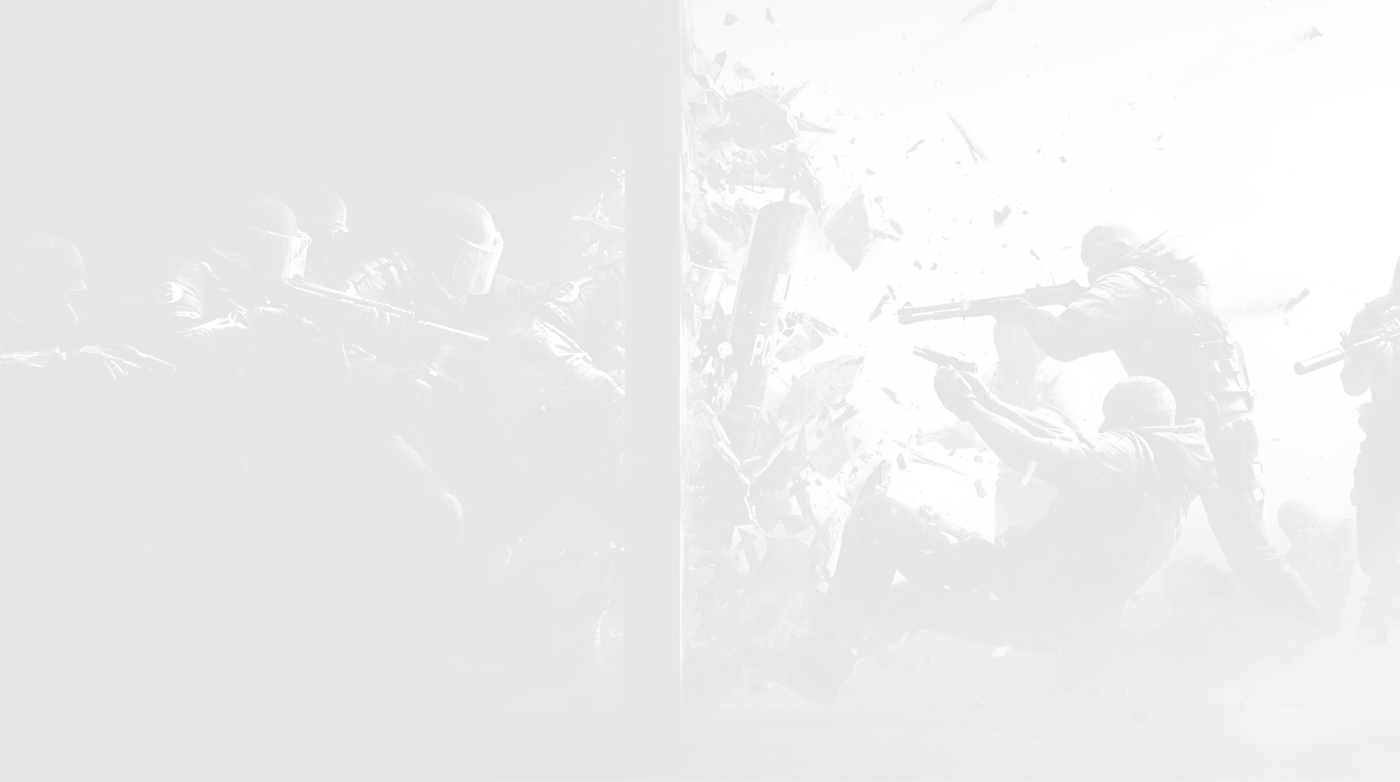
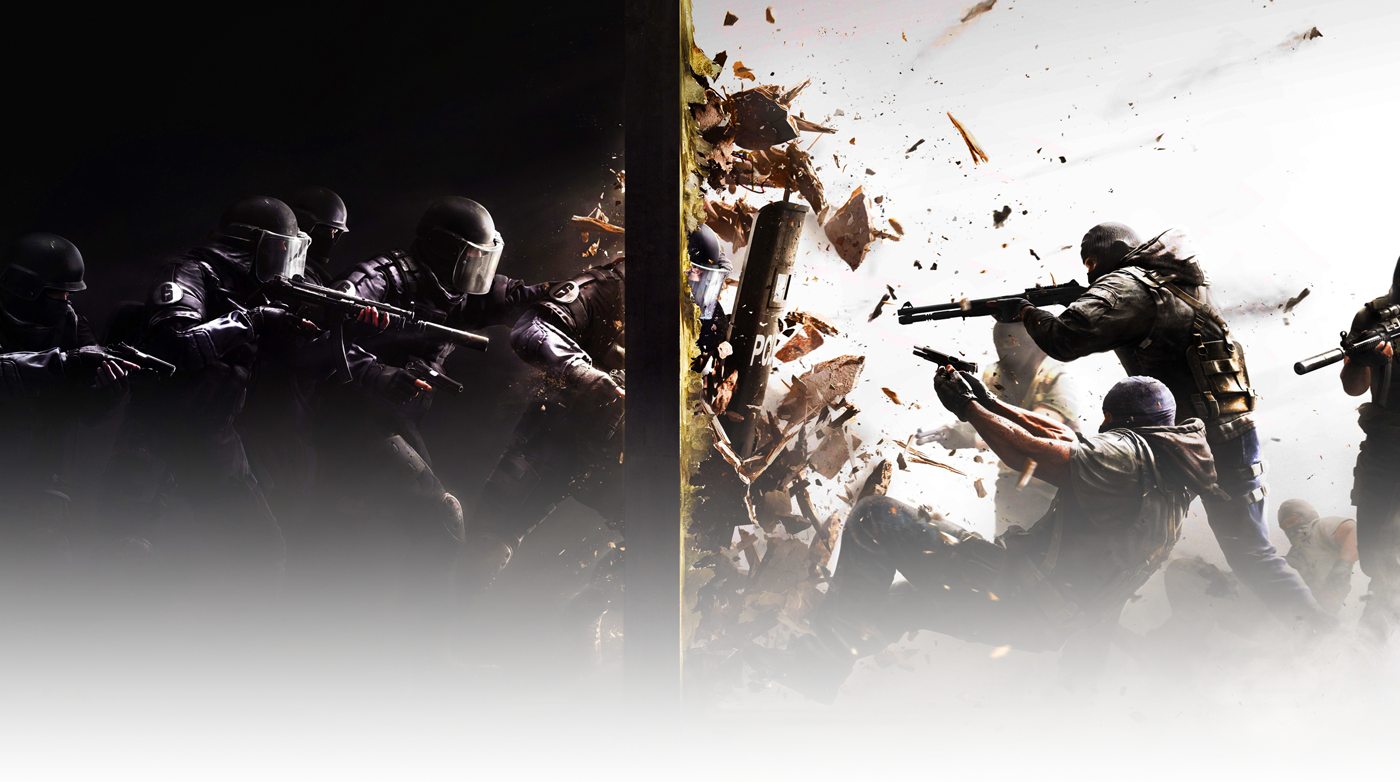
Modified header menu

diff --git a/index.html b/index.html
@@ -12,19 +12,20 @@
 
 <body>
     <header class="header">
+        <div class="header-box"><img src="./Images/bgimg-header.png" alt="header-img"></div>
         <div class="container">
             <div class="row flex-column-left">
                 <div class="header-title col-xs-12 col-sm-12 col-md-9 col-lg-6 col-xl-12"><span>S</span>ublime</div>
                 <div class="header-description col-xs-12 col-sm-12 col-md-9 col-lg-6 col-xl-6"><span>S</span>ublime: A
                     one page responsive wordpress theme <br>suitable for any kind of business representation.</div>
-                <div class="header-menu col-xs-12">
-                    <div class="box"><img src="./Images/img-header.png" alt=""></div>
+                <div class="header-menu">
+                    <div class="box flex-row-top-center"><img src="./Images/img-header.png" alt=""></div>
                     <div class="title-sublime"><span>W</span>e create Awesome Games</div>
                     <nav class="menu flex-row-center">
-                        <div><a href="">About</a></div>
-                        <div><a href="">Developments</a></div>
-                        <div><a href="">Projects</a></div>
-                        <div><a href="">Blog</a></div>
+                        <div class="flex-column-center"><a href="">About</a><div class="border-hover"></div></div>
+                        <div class="flex-column-center"><a href="">Developments</a><div class="border-hover"></div></div>
+                        <div class="flex-column-center"><a href="">Projects</a><div class="border-hover"></div></div>
+                        <div class="flex-column-center"><a href="">Blog</a><div class="border-hover"></div></div>
                     </nav>
                 </div>
             </div>
@@ -64,10 +65,10 @@
             <section class="features">
                 <div class="section-title"><span>F</span>eature<span class="span-underline">d <span >P</span>rojects</span> </div>
                 <nav class="feat-menu flex-row-left col-xs-12 col-sm-12 col-md-8 col-lg-6 col-xl-6">
-                    <div class="flex-column-center"><a href="">ALL WORKS</a><div class="feat-menu-hov"></div></div>                    
-                    <div class="flex-column-center"><a href="">GAMES</a><div class="feat-menu-hov"></div></div>
-                    <div class="flex-column-center"><a href="">APPLICATIONS</a><div class="feat-menu-hov"></div></div>
-                    <div class="flex-column-center"><a href="">CONTENT DEVELOPMENT</a><div class="feat-menu-hov"></div></div>
+                    <div class="flex-column-center"><a href="">ALL WORKS</a><div class="border-hover"></div></div>                    
+                    <div class="flex-column-center"><a href="">GAMES</a><div class="border-hover"></div></div>
+                    <div class="flex-column-center"><a href="">APPLICATIONS</a><div class="border-hover"></div></div>
+                    <div class="flex-column-center"><a href="">CONTENT DEVELOPMENT</a><div class="border-hover"></div></div>
                 </nav>
                 <div class="flex-row-center">
                     <div class="col-xs-12 col-sm-12 col-md-6 col-lg-3 col-xl-3 box-feat"><img src="./Images/feat-img-1.png"

diff --git a/style.css b/style.css
@@ -412,11 +412,25 @@
 }
 
 .header {
-  background-image: url(./Images/bgimg-header.png);
+  position: relative;
+  background-color: #161616;
+}
+
+.header-box {
+  position: absolute;
   width: 100%;
   height: 100%;
-  min-height: 780px;
+  overflow: hidden;
   background-color: #000;
+}
+
+.header-box img {
+  width: 100%;
+  height: 100%;
+  opacity: 20%;
+  -o-object-fit: cover;
+     object-fit: cover;
+  z-index: 1;
 }
 
 span {
@@ -428,14 +442,15 @@ span {
   margin-bottom: 20px;
   font-family: 'Myriad Pro', sans-serif;
   font-weight: 700;
-  font-size: 60px;
+  font-size: 80px;
   color: #fff;
+  z-index: 2;
 }
 
 .title-sublime {
   font-family: 'Myriad Pro', sans-serif;
   font-weight: 700;
-  font-size: 60px;
+  font-size: 80px;
   color: #fff;
   font-size: 40px;
 }
@@ -447,6 +462,7 @@ span {
   font-weight: 400;
   font-size: 18px;
   color: #fff;
+  z-index: 2;
 }
 
 .header-menu {
@@ -454,31 +470,16 @@ span {
 }
 
 .box {
-  margin-left: -15px;
-  margin-right: -15px;
-  width: auto;
-  height: auto;
-  display: -webkit-box;
-  display: -ms-flexbox;
-  display: flex;
-  -ms-flex-wrap: wrap;
-      flex-wrap: wrap;
-  -webkit-box-orient: horizontal;
-  -webkit-box-direction: normal;
-      -ms-flex-direction: row;
-          flex-direction: row;
-  -webkit-box-pack: center;
-      -ms-flex-pack: center;
-          justify-content: center;
-  -webkit-box-align: center;
-      -ms-flex-align: center;
-          align-items: center;
+  width: 100%;
+  height: 100%;
+  overflow: hidden;
 }
 
 .box img {
   width: 100%;
   height: 100%;
-  min-height: 630px;
+  min-height: 530px;
+  max-height: 550px;
   -o-object-fit: cover;
      object-fit: cover;
   opacity: 70%;
@@ -496,18 +497,26 @@ span {
 }
 
 .menu a {
-  padding: 5px 20px;
+  margin: 0;
+  padding: 5px 10px;
   text-decoration: none;
   font-family: 'Myriad Pro', sans-serif;
   font-weight: 400;
   font-size: 18px;
   color: #fff;
   color: #ffc600;
+  -webkit-transition: margin .5s, color .5s;
+  transition: margin .5s, color .5s;
 }
 
 .menu a:hover {
+  margin: 0 20px;
   color: #fff;
-  border-bottom: 1px solid #ffc600;
+}
+
+.menu a:hover + div.border-hover {
+  width: 50%;
+  border-top: 3px solid #ffc600;
 }
 
 .about {
@@ -641,19 +650,12 @@ div .section-title {
   transition: margin .5s;
 }
 
-.feat-menu-hov {
-  width: 20%;
-  border-top: 3px solid transparent;
-  -webkit-transition: all .5s;
-  transition: all .5s;
-}
-
 .feat-menu a:hover {
   margin: 0 20px;
 }
 
-.feat-menu a:hover + div.feat-menu-hov {
-  width: 40%;
+.feat-menu a:hover + div.border-hover {
+  width: 50%;
   border-top: 3px solid #ffc600;
 }
 
@@ -1235,7 +1237,7 @@ form div input:focus, form div textarea:focus {
 .footer-descr {
   font-family: 'Myriad Pro', sans-serif;
   font-weight: 700;
-  font-size: 60px;
+  font-size: 80px;
   color: #fff;
   position: absolute;
   top: 55%;
@@ -1417,5 +1419,13 @@ form div input:focus, form div textarea:focus {
 .section-title span span {
   font-size: 45px;
   color: #000;
+}
+
+.border-hover {
+  margin-top: 3px;
+  width: 20%;
+  border-top: 3px solid transparent;
+  -webkit-transition: all .5s;
+  transition: all .5s;
 }
 /*# sourceMappingURL=style.css.map */

diff --git a/_header-section.scss b/_header-section.scss
@@ -1,10 +1,21 @@
-.header {    
-    background-image: url(./Images/bgimg-header.png);
+.header {
+    position: relative;
+    background-color: $color-black-9;
+}
+.header-box { 
+    position: absolute; 
     width: 100%;
     height: 100%;
-    // object-fit: cover;
-    min-height: 780px;
+    overflow: hidden;    
+    // min-height: 780px;
     @include bg-color-b;
+    img {
+        width: 100%;
+        height: 100%;
+        opacity: 20%;
+        object-fit: cover;
+        z-index: 1;
+    }
 }
 
 span {
@@ -15,6 +26,7 @@ span {
     margin-top: 60px;
     margin-bottom: 20px;
     @include fontSublimeTitle;
+    z-index: 2;
 }
 .title-sublime {
     @include fontSublimeTitle;
@@ -25,21 +37,20 @@ span {
     margin-bottom: 60px;
     line-height: 1.5;
     @include text-description-regular-18;
+    z-index: 2;
 }
 .header-menu {
     position: relative;
 }
-.box {
-    margin-left: -15px;
-    margin-right: -15px;
-    width: auto;
-    height: auto;
-    
-    @include flexRowCenter;
+.box {    
+    width: 100%;
+    height: 100%;    
+    overflow: hidden;   
     img {        
         width: 100%;
         height: 100%;
-        min-height: 630px;       
+        min-height: 530px;
+        max-height: 550px;               
         object-fit: cover;
         opacity: 70%;
     }
@@ -54,13 +65,17 @@ span {
     top: 180px;
 }
 .menu a {
-    padding: 5px 20px;
+    margin: 0;    
+    padding: 5px 10px;
     text-decoration: none;
     @include text-description-regular-18;
     color: $color-yellow;
+    transition: margin .5s, color .5s;
 }
 .menu a:hover {
+    margin: 0 20px;
     color: $color-white;
-    border-bottom: 1px solid $color-yellow;
-    // transition: .25s ease-in-out;
+}
+.menu a:hover+div.border-hover {
+    @include borderHoverEffect;    
 }

diff --git a/_mixins.scss b/_mixins.scss
@@ -4,7 +4,7 @@
 @mixin fontSublimeTitle {
     font-family: 'Myriad Pro', sans-serif;
     font-weight: 700;
-    font-size: 60px;
+    font-size: 80px;
     color: $color-white;
 }
 
@@ -60,6 +60,16 @@
 }
 @mixin bg-color-w {
     background-color: $color-white;
+}
+@mixin borderHover {
+    margin-top: 3px;
+    width: 20%;
+    border-top: 3px solid transparent;
+    transition: all .5s;
+}
+@mixin borderHoverEffect {
+    width: 50%;
+    border-top: 3px solid $color-yellow;
 }
 
[1 lines of base64/hex data omitted]

diff --git a/_features-section.scss b/_features-section.scss
@@ -16,17 +16,12 @@
     color: $color-black-9;
     transition: margin .5s;
 }
-.feat-menu-hov {
-    width: 20%;
-    border-top: 3px solid transparent;
-    transition: all .5s;
-}
+
 .feat-menu a:hover {
     margin: 0 20px;    
 }
-.feat-menu a:hover+div.feat-menu-hov {
-    width: 40%;
-    border-top: 3px solid $color-yellow;    
+.feat-menu a:hover+div.border-hover {
+    @include borderHoverEffect;    
 }
 .box-feat {
     overflow: hidden;

diff --git a/style.scss b/style.scss
@@ -47,3 +47,6 @@
 .section-title {
     @include sectionTitleDev;  
 }
+.border-hover {
+    @include borderHover;
+}
